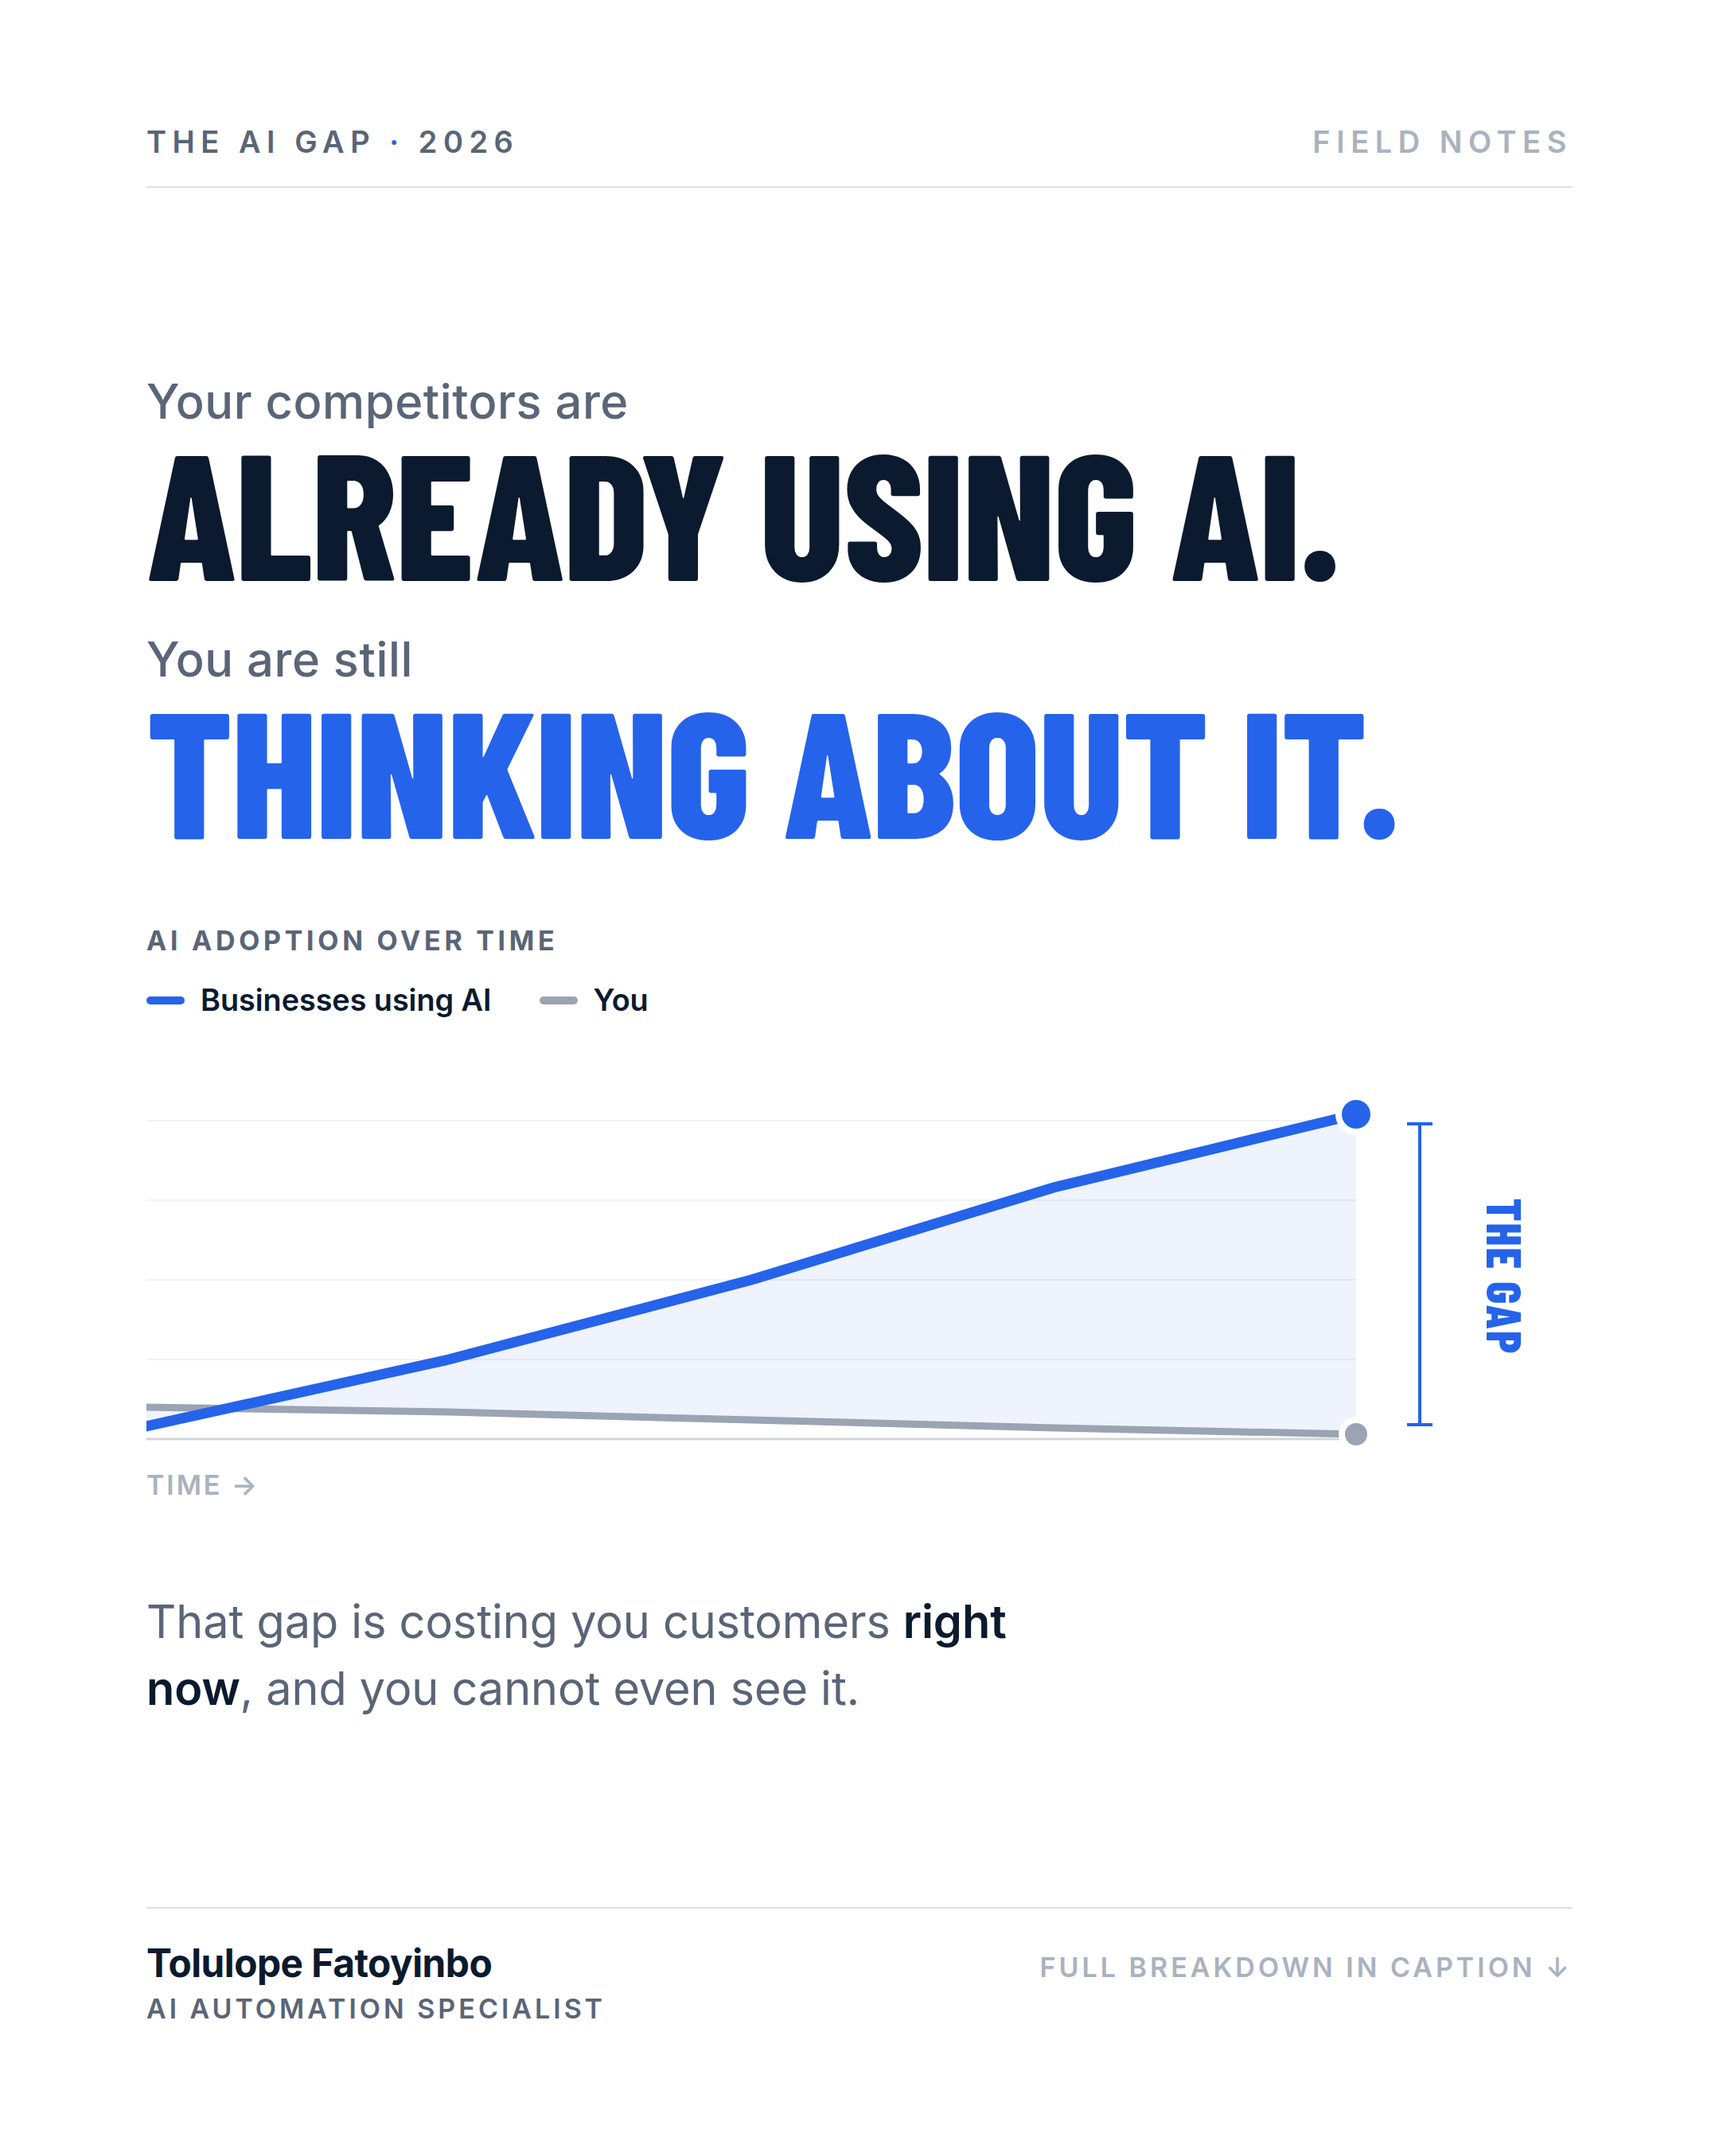
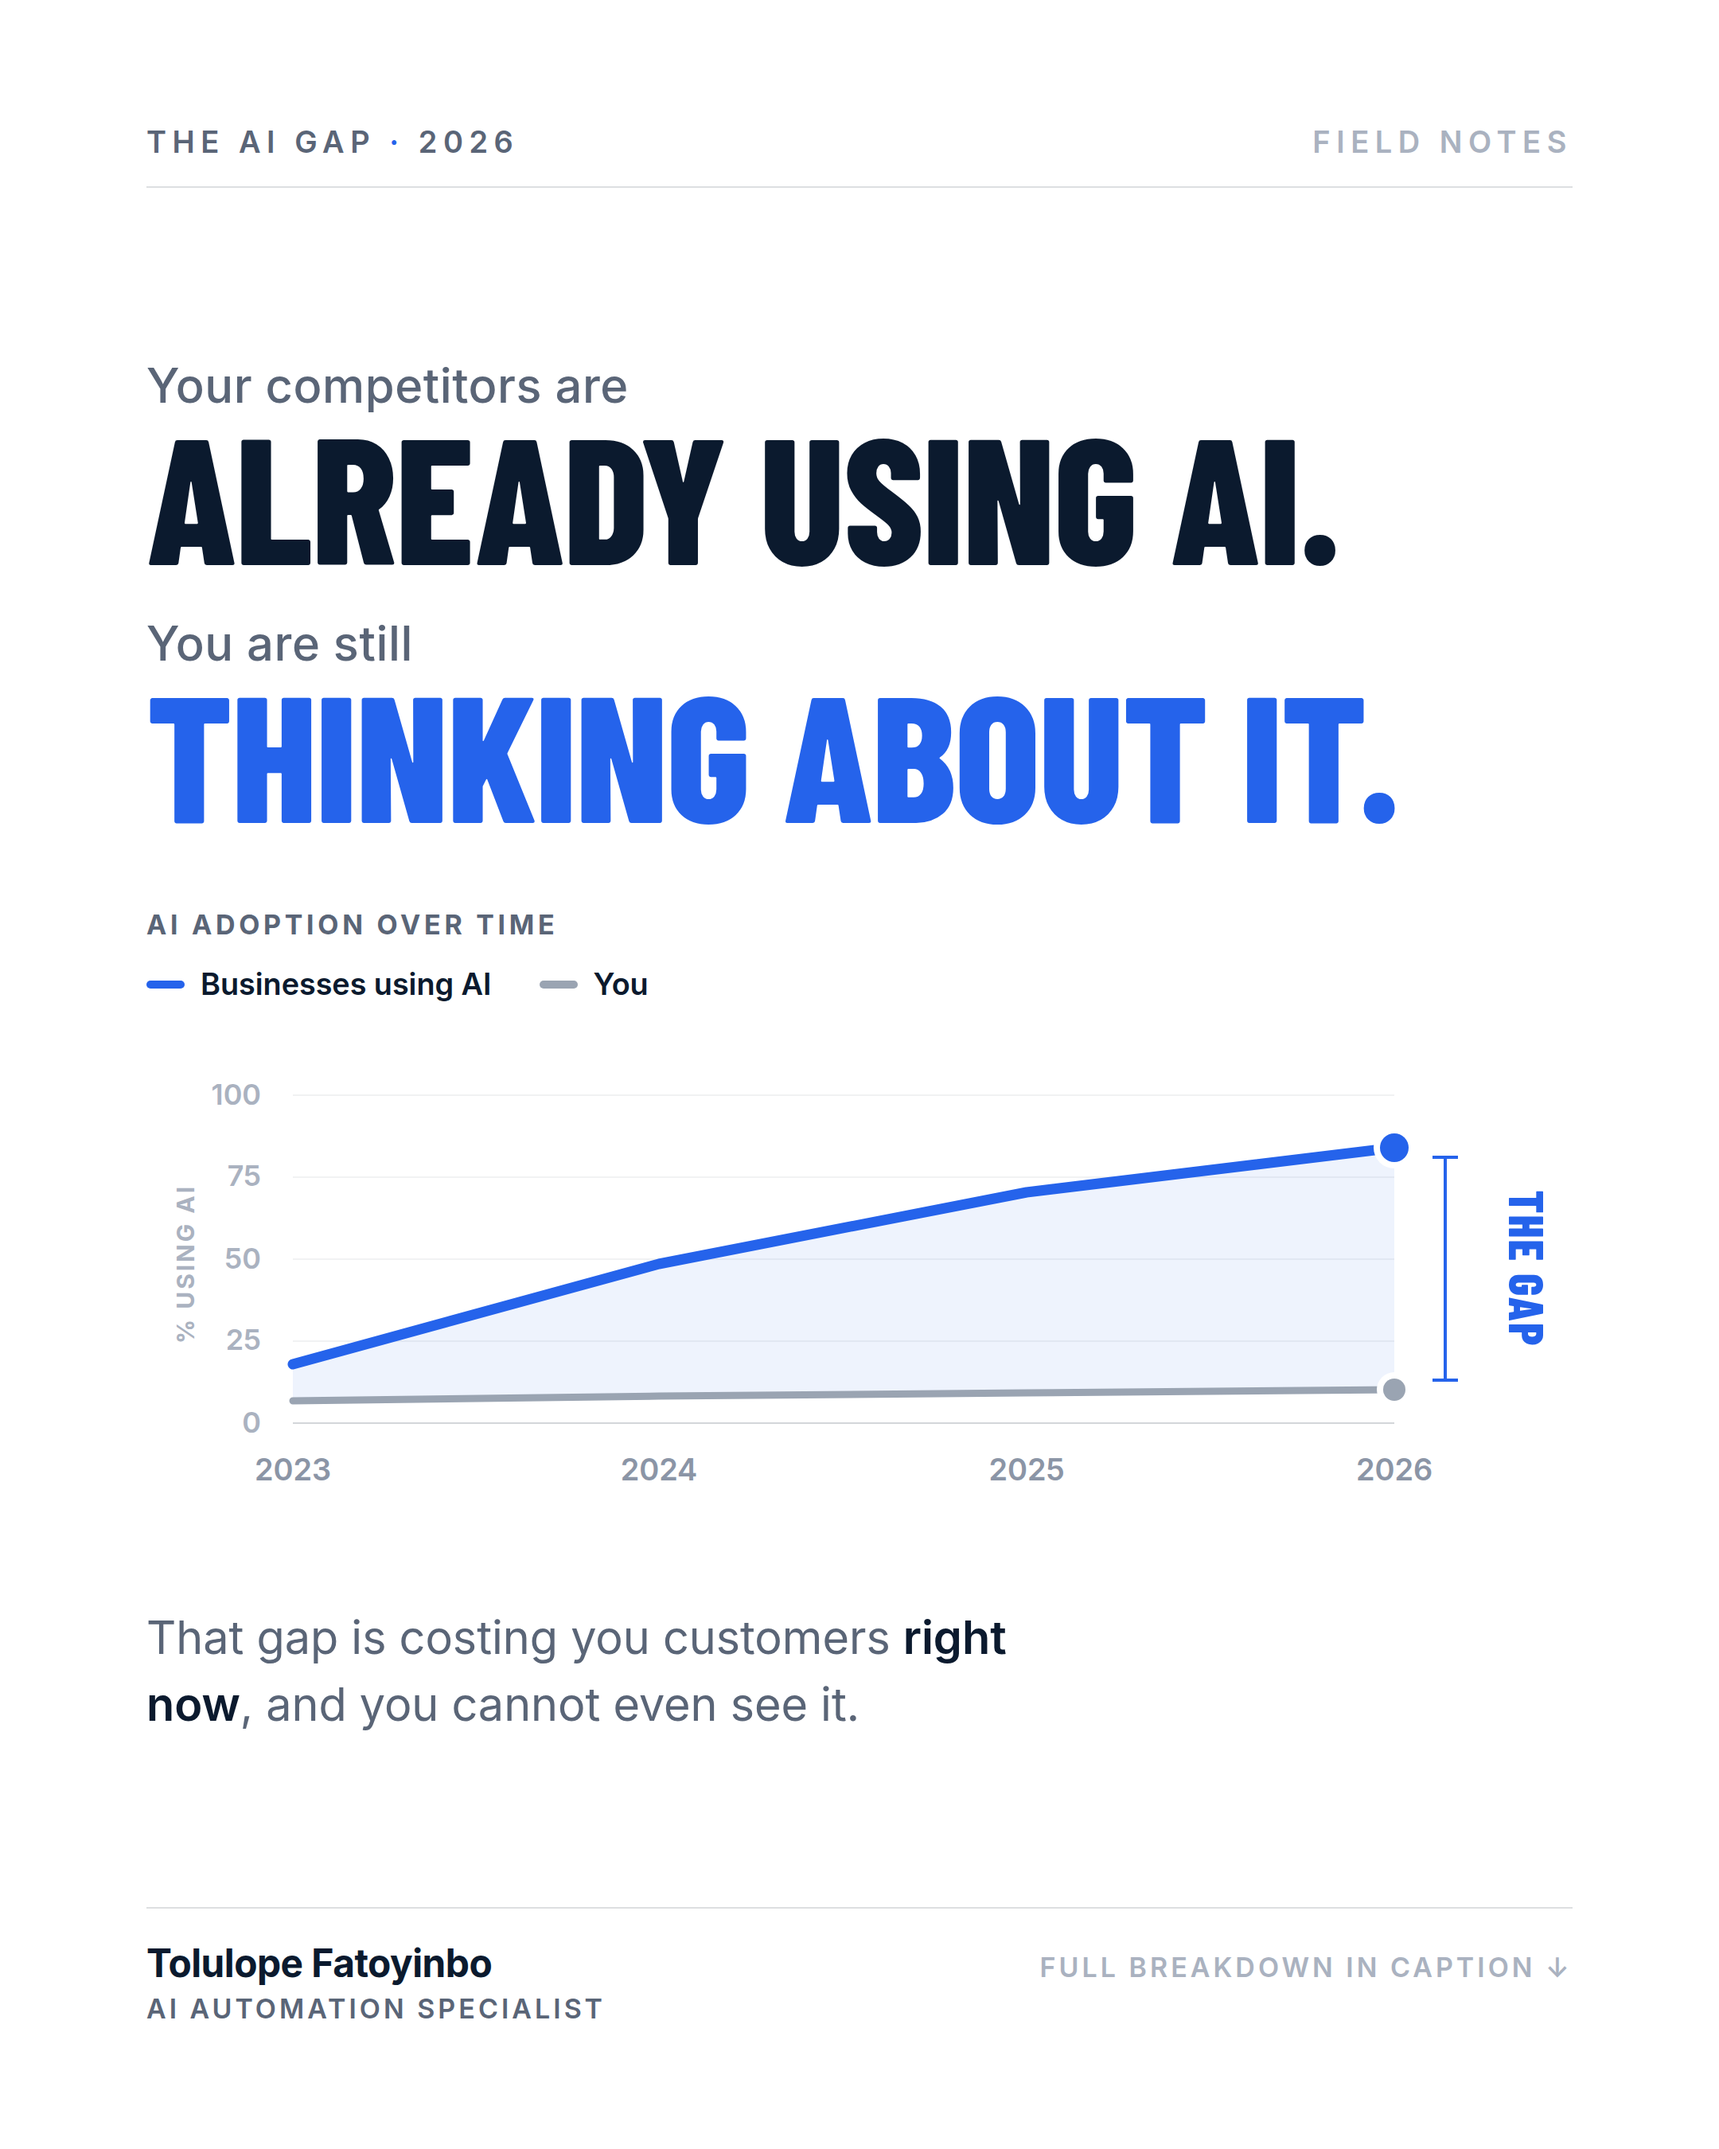
social: AI-gap hook chart gets labelled axes (% Y-axis, year X-axis)
Claude-Session: https://claude.ai/code/session_01SkFGZsBuYd2sbHqq7bJQT8

diff --git a/marketing/social/ai-gap-hook/composition.html b/marketing/social/ai-gap-hook/composition.html
@@ -69,35 +69,42 @@ body{background:#dfe2e8;display:flex;justify-content:center;padding:44px}
           <span class="lg"><span class="sw blue"></span>Businesses using AI</span>
           <span class="lg"><span class="sw grey"></span>You</span>
         </div>
-        <svg viewBox="0 0 896 300" fill="none">
-          <!-- faint gridlines -->
-          <g stroke="rgb(11 26 46 / 0.06)" stroke-width="1">
-            <line x1="0" y1="50" x2="760" y2="50"/><line x1="0" y1="100" x2="760" y2="100"/>
-            <line x1="0" y1="150" x2="760" y2="150"/><line x1="0" y1="200" x2="760" y2="200"/>
+        <svg viewBox="0 0 896 320" fill="none">
+          <!-- gridlines + Y-axis % labels (0..100). Plot: x 92..784, y 44(=100%)..250(=0%) -->
+          <g font-family="Inter" font-size="18" font-weight="600" fill="#aab2c0">
+            <line x1="92" y1="44"  x2="784" y2="44"  stroke="rgb(11 26 46 / 0.06)"/><text x="72" y="50"  text-anchor="end">100</text>
+            <line x1="92" y1="95.5" x2="784" y2="95.5" stroke="rgb(11 26 46 / 0.06)"/><text x="72" y="101" text-anchor="end">75</text>
+            <line x1="92" y1="147" x2="784" y2="147" stroke="rgb(11 26 46 / 0.06)"/><text x="72" y="153" text-anchor="end">50</text>
+            <line x1="92" y1="198.5" x2="784" y2="198.5" stroke="rgb(11 26 46 / 0.06)"/><text x="72" y="204" text-anchor="end">25</text>
+            <line x1="92" y1="250" x2="784" y2="250" stroke="rgb(11 26 46 / 0.18)"/><text x="72" y="256" text-anchor="end">0</text>
           </g>
-          <!-- baseline (time axis) -->
-          <line x1="0" y1="250" x2="760" y2="250" stroke="rgb(11 26 46 / 0.18)" stroke-width="1.5"/>
+          <text x="30" y="150" font-family="Inter" font-size="15" font-weight="700" letter-spacing="1.5"
+                fill="#aab2c0" text-anchor="middle" transform="rotate(-90 30 150)">% USING AI</text>
           <!-- shaded gap -->
-          <path d="M0,242 L190,200 L380,150 L570,92 L760,46 L760,247 L570,243 L380,238 L190,233 L0,230 Z"
-                fill="rgb(37 99 235 / 0.08)"/>
-          <!-- YOU (flat) -->
-          <polyline points="0,230 190,233 380,238 570,243 760,247" stroke="#9aa4b2" stroke-width="4.5"
+          <path d="M92,213 L322,150 L553,105 L784,77 L784,229 L553,231 L322,233 L92,236 Z" fill="rgb(37 99 235 / 0.08)"/>
+          <!-- YOU (flat, low) -->
+          <polyline points="92,236 322,233 553,231 784,229" stroke="#9aa4b2" stroke-width="4.5"
                     stroke-linecap="round" stroke-linejoin="round"/>
-          <!-- COMPETITORS (rising) -->
-          <polyline points="0,242 190,200 380,150 570,92 760,46" stroke="#2563eb" stroke-width="6.5"
+          <!-- BUSINESSES USING AI (rising) -->
+          <polyline points="92,213 322,150 553,105 784,77" stroke="#2563eb" stroke-width="6.5"
                     stroke-linecap="round" stroke-linejoin="round"/>
           <!-- endpoint dots with white ring -->
-          <circle cx="760" cy="46" r="13" fill="#fff"/><circle cx="760" cy="46" r="9" fill="#2563eb"/>
-          <circle cx="760" cy="247" r="11" fill="#fff"/><circle cx="760" cy="247" r="7" fill="#9aa4b2"/>
+          <circle cx="784" cy="77" r="13" fill="#fff"/><circle cx="784" cy="77" r="9" fill="#2563eb"/>
+          <circle cx="784" cy="229" r="11" fill="#fff"/><circle cx="784" cy="229" r="7" fill="#9aa4b2"/>
           <!-- THE GAP bracket -->
           <g stroke="#2563eb" stroke-width="2">
-            <line x1="800" y1="52" x2="800" y2="241"/>
-            <line x1="792" y1="52" x2="808" y2="52"/><line x1="792" y1="241" x2="808" y2="241"/>
+            <line x1="816" y1="83" x2="816" y2="223"/>
+            <line x1="808" y1="83" x2="824" y2="83"/><line x1="808" y1="223" x2="824" y2="223"/>
           </g>
-          <text x="842" y="148" font-family="Barlow Condensed" font-size="30" font-weight="800"
-                letter-spacing="1" fill="#2563eb" text-anchor="middle" transform="rotate(90 842 148)">THE GAP</text>
-          <!-- time axis label -->
-          <text x="0" y="285" font-family="Inter" font-size="17" font-weight="600" letter-spacing="1.5" fill="#aab2c0">TIME &#8594;</text>
+          <text x="856" y="153" font-family="Barlow Condensed" font-size="30" font-weight="800"
+                letter-spacing="1" fill="#2563eb" text-anchor="middle" transform="rotate(90 856 153)">THE GAP</text>
+          <!-- X-axis year labels -->
+          <g font-family="Inter" font-size="19" font-weight="600" fill="#8b95a6">
+            <text x="92"  y="286" text-anchor="middle">2023</text>
+            <text x="322" y="286" text-anchor="middle">2024</text>
+            <text x="553" y="286" text-anchor="middle">2025</text>
+            <text x="784" y="286" text-anchor="middle">2026</text>
+          </g>
         </svg>
       </div>
 
